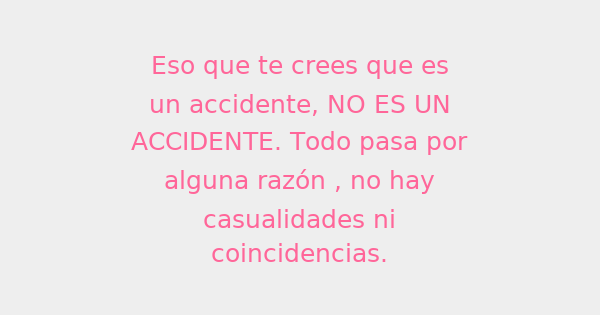
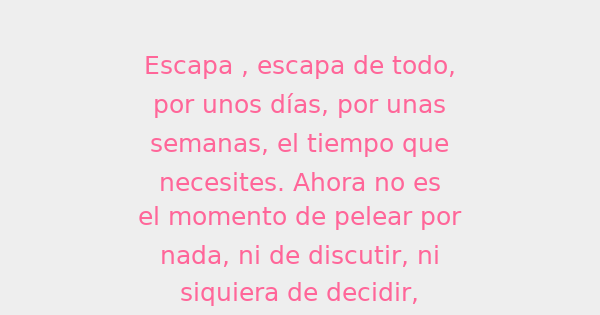
cfg

diff --git a/_posts/2015-2-7-Signos-del-Zodiaco.md b/_posts/2015-2-7-Signos-del-Zodiaco.md
@@ -1,14 +1,14 @@
 ---
 layout: horoscopo_de_hoy
-title: Hóroscopo de hoy 19 de julio 2026
-description: Horóscopos del dia de hoy 19 de julio 2026 Astrologia, Horoscopos univision todos los signos del zodiaco. Esperanza Gracia.
+title: Hóroscopo de hoy 20 de julio 2026
+description: Horóscopos del dia de hoy 20 de julio 2026 Astrologia, Horoscopos univision todos los signos del zodiaco. Esperanza Gracia.
 permalink: /horoscopo-de-hoy/
 redirect_from: /2015/02/signos-del-zodiaco.html
 ogimg: /images/diario.png
 sitemap:
  priority: 1
  changefreq: 'daily'
- lastmod: 2026-07-19
+ lastmod: 2026-07-20
 ---
-Los esfuerzos dan frutos en el futuro cuando Marte forma sextil con Saturno hoy. Sólo tener intenciones no se traducirá en un producto final. Ponte a trabajar y hazle frente a esas extrañas responsabilidades en tu lista de tareas pendientes. Has trabajado duro y lograste mucho antes, por lo que relájate y respira la espontaneidad que hay en el aire bajo la Luna en Acuario de esta noche.
+Aclara y comunica propósitos el día de hoy. Las personas confusas hacen las peores cosas posibles cuando las mentes están en distintas modalidades. El ritmo más lento de esta noche es agradable bajo la Luna en Tauro. Puedes pasarte una deliciosa velada, bien merecida después de un complicado día. Solteros, noten el interesante pensamiento que sale a la superficie a la primera mirada.
 ¿Quieres saber como sera tu dia? Enterate que tienen los astros preparado para vos y organiza tu dia segun tu horoscopo diario gratis. Elejí tu signo mas abajo y podras conocer como es tu hóroscopo en el amor, trabajo, vida personal.